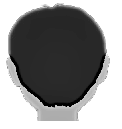
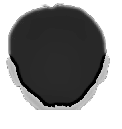
Ajuste area queimada pescoço

Changed region(s): [[0.2951, 0.8372, 0.6639, 0.9612]]

diff --git a/src/app/components/popup-cadastro-medicamento/popup-cadastro-medicamento.component.html b/src/app/components/popup-cadastro-medicamento/popup-cadastro-medicamento.component.html
@@ -200,71 +200,87 @@
                   </mat-error>
               </div>
             </div>
+            <div>
 
-            <div *ngIf="isRenal">
-              <label>Dados para pacientes com hemodiálise</label><br>
-              <mat-form-field class="div-mat-form-field">
-                  <input type="text" matInput formControlName="hemodialise">
-                  <mat-error *ngIf="formMedicamento.controls.hemodialise.invalid && formMedicamento.controls.hemodialise.touched">
-                    Esse campo é obrigatório.
-                  </mat-error>
-              </mat-form-field>
-            </div>        
-
-            <div *ngIf="isRenal">
-              <label>Clearance de Creatinina (Menor valor para comparação):</label><br>
-              <mat-form-field class="div-mat-form-field">
-                  <input type="number" matInput formControlName="clearanceCreatininaItem1">
-                  <mat-error *ngIf="formMedicamento.controls.clearanceCreatininaItem1.invalid && formMedicamento.controls.clearanceCreatininaItem1.touched">
-                    Esse campo é obrigatório.
-                  </mat-error>
-              </mat-form-field>
-            </div>   
-            
-            <div *ngIf="isRenal">
-              <label>Clearance de Creatinina (Maior valor para comparação):</label><br>
-              <mat-form-field class="div-mat-form-field">
-                <input type="number" matInput formControlName="clearanceCreatininaItem2">
-                <mat-error *ngIf="formMedicamento.controls.clearanceCreatininaItem2.invalid && formMedicamento.controls.clearanceCreatininaItem2.touched">
-                  Esse campo é obrigatório.
-                </mat-error>
-              </mat-form-field>
-            </div>   
-            
-            <div *ngIf="isRenal && isPediatrico">
-              <label>Clearance de Creatinina (Valor intermediário para comparação):</label><br>
-              <mat-form-field class="div-mat-form-field">
-                  <input type="number" matInput formControlName="clearanceCreatininaItem3">
-              </mat-form-field>
-            </div>    
+              <div *ngIf="isRenal" class="div-flex-1">
+                <div>
+                  <label>Dados para pacientes com hemodiálise</label><br>
+                  <mat-form-field class="div-mat-form-field">
+                      <input type="text" matInput formControlName="hemodialise">
+                      <mat-error *ngIf="formMedicamento.controls.hemodialise.invalid && formMedicamento.controls.hemodialise.touched">
+                        Esse campo é obrigatório.
+                      </mat-error>
+                  </mat-form-field>
+                </div>
+              </div>        
+  
+              <div *ngIf="isRenal" class="div-flex-1" >
+                <div style="width: 78%">
+                  <label>Clearance de Creatinina (Menor valor para comparação):</label><br>
+                  <mat-form-field class="div-mat-form-field">
+                      <input type="number" matInput formControlName="clearanceCreatininaItem1">
+                      <mat-error *ngIf="formMedicamento.controls.clearanceCreatininaItem1.invalid && formMedicamento.controls.clearanceCreatininaItem1.touched">
+                        Esse campo é obrigatório.
+                      </mat-error>
+                  </mat-form-field>
+                </div>
+              </div>   
               
-            <div *ngIf="isRenal">
-              <label>Correção de horário (Ex: 'Menor ClCr ou Medio ClCr' - 'Maior ClCr'):</label><br>
+              <div *ngIf="isRenal" class="div-flex-1">
+                <div style="width: 78%">
+                  <label>Clearance de Creatinina (Maior valor para comparação):</label><br>
+                  <mat-form-field class="div-mat-form-field">
+                    <input type="number" matInput formControlName="clearanceCreatininaItem2">
+                    <mat-error *ngIf="formMedicamento.controls.clearanceCreatininaItem2.invalid && formMedicamento.controls.clearanceCreatininaItem2.touched">
+                      Esse campo é obrigatório.
+                    </mat-error>
+                  </mat-form-field>
+                </div>
+              </div>   
+              
+              <div *ngIf="isRenal && isPediatrico" class="div-flex-1">
+                <div style="width: 78%">
+                  <label>Clearance de Creatinina (Valor intermediário para comparação):</label><br>
+                  <mat-form-field class="div-mat-form-field">
+                      <input type="number" matInput formControlName="clearanceCreatininaItem3">
+                  </mat-form-field>
+                </div>
+              </div>    
+                
+              <div *ngIf="isRenal" class="div-flex-1">
+                <div style="width: 78%">
+                  <label>Correção de horário (Ex: 'Menor ClCr ou Medio ClCr' - 'Maior ClCr'):</label><br>
+                  <mat-form-field class="div-mat-form-field">
+                      <input type="text" matInput formControlName="clearanceCreatininaHorario1">
+                      <mat-error *ngIf="formMedicamento.controls.clearanceCreatininaHorario1.invalid && formMedicamento.controls.clearanceCreatininaHorario1.touched">
+                        Esse campo é obrigatório.
+                      </mat-error>
+                  </mat-form-field>
+                </div>
+              </div> 
+            
+            <div *ngIf="isRenal" class="div-flex-1">
+              <div style="width: 78%">
+                <label>Correção de horário (Ex: < 'Menor ClCr'):</label><br>
+                <mat-form-field class="div-mat-form-field">
+                    <input type="text" matInput formControlName="clearanceCreatininaHorario2">
+                    <mat-error *ngIf="formMedicamento.controls.clearanceCreatininaHorario2.invalid && formMedicamento.controls.clearanceCreatininaHorario2.touched">
+                      Esse campo é obrigatório.
+                    </mat-error>
+                </mat-form-field>
+              </div>
+            </div>
+          </div>
+
+          <div *ngIf="isRenal && isPediatrico" class="div-flex-1">
+            <div style="width: 78%"> 
+              <label>Correção de horário (Ex: 'Menor ClCr' - 'Medio ClCr'):</label><br>
               <mat-form-field class="div-mat-form-field">
-                  <input type="text" matInput formControlName="clearanceCreatininaHorario1">
-                  <mat-error *ngIf="formMedicamento.controls.clearanceCreatininaHorario1.invalid && formMedicamento.controls.clearanceCreatininaHorario1.touched">
-                    Esse campo é obrigatório.
-                  </mat-error>
+                  <input type="text" matInput formControlName="clearanceCreatininaHorario3">             
               </mat-form-field>
-            </div> 
+            </div>
+          </div>
           
-          <div *ngIf="isRenal">
-            <label>Correção de horário (Ex: < 'Menor ClCr'):</label><br>
-            <mat-form-field class="div-mat-form-field">
-                <input type="text" matInput formControlName="clearanceCreatininaHorario2">
-                <mat-error *ngIf="formMedicamento.controls.clearanceCreatininaHorario2.invalid && formMedicamento.controls.clearanceCreatininaHorario2.touched">
-                  Esse campo é obrigatório.
-                </mat-error>
-            </mat-form-field>
-          </div>
-
-
-          <div *ngIf="isRenal && isPediatrico">
-            <label>Correção de horário (Ex: 'Menor ClCr' - 'Medio ClCr'):</label><br>
-            <mat-form-field class="div-mat-form-field">
-                <input type="text" matInput formControlName="clearanceCreatininaHorario3">             
-            </mat-form-field>
-          </div>
           <mat-action-row>
             <button mat-button color="warn" (click)="prevStep()">Voltar</button>
             <button mat-button color="primary" (click)="nextStep()">Próximo</button>

diff --git a/src/app/pages/folha-de-parada/folha-de-parada.component.ts b/src/app/pages/folha-de-parada/folha-de-parada.component.ts
@@ -71,11 +71,15 @@ calcularDosagens() {
   this.calculoMg();
   this.calcularProfundidadeTE();
   this.calcularTamanhoTE();
+  this.calcularDesfibrilacao();
+  this.cardioversaoSincronizada();
 } 
 
   calcularIdade(){
     this.calcularTamanhoTE();
     this.calcularProfundidadeTE();
+    this.calcularDesfibrilacao();
+    this.cardioversaoSincronizada()
     
     if(!this.peso && this.idade){
       this.pesoPrevisto = (this.idade * 2) + 8;
@@ -189,14 +193,15 @@ calcularDosagens() {
   calcularDesfibrilacao() {
     const energias = [2, 4, 6, 8, 10];      
     // Calcular as cinco energias e adicioná-las ao array
-    return this.desfibrilacao = energias.map(x => x * this.peso)
+      this.desfibrilacao = energias.map(x => x * this.peso);
   }
 
   cardioversaoSincronizada() {
     const energias = [0.5,1,2];    
     // Calcular as cinco energias e adicioná-las ao array
-    return this.cardioversaoSinc = energias.map(x => x * this.peso)
+    this.cardioversaoSinc = energias.map(x => x * this.peso);
   }
+ 
 
   calculoMl(){
     let pesoCalculo = this.peso;

diff --git a/src/app/services/login.service.ts b/src/app/services/login.service.ts
@@ -13,9 +13,9 @@ import { ActivatedRoute, Router } from '@angular/router';
   providedIn: 'root'
 })
 export class LoginService {
-  // endpoint: string = 'https://doctor-api.azurewebsites.net/api';
+  endpoint: string = 'https://doctor-api.azurewebsites.net/api';
   // endpoint: string = 'https://doctors-api.azurewebsites.net/api';
-  endpoint: string = 'https://localhost:7044/api';
+  // endpoint: string = 'https://localhost:7044/api';
 
   headers = new HttpHeaders().set('Content-Type', 'application/json');
   currentLogin = {};

diff --git a/src/app/services/medicamentos.service.ts b/src/app/services/medicamentos.service.ts
@@ -13,9 +13,9 @@ import { Medicamento } from '../model/medicamento';
 })
 export class MedicamentosService {
 
-// REST_API: string = 'https://doctor-api.azurewebsites.net/api';
+REST_API: string = 'https://doctor-api.azurewebsites.net/api';
 // REST_API: string = 'https://doctors-api.azurewebsites.net/api';
-REST_API: string = 'https://localhost:7044/api';
+// REST_API: string = 'https://localhost:7044/api';
 
 httpHeaders = new HttpHeaders().set('Content-Type', 'application/json');
 constructor(private httpClient: HttpClient) {}

diff --git a/src/app/pages/calculo-regra-dos-nove/calculo-regra-dos-nove.component.scss b/src/app/pages/calculo-regra-dos-nove/calculo-regra-dos-nove.component.scss
@@ -338,9 +338,9 @@
   
   .pescoco-frente-kid{
     width: 20.2%;
-    top: 34.3%;
-    left: 42.8%;
-    height: 13%;
+    top: 30%;
+    left: 42%;
+    height: 12%;
   }
   
   .biceps-direito-frente-kid{
@@ -463,10 +463,10 @@
   }
   
   .pescoco-costa-kid{
-    width: 21.2%;
-    top: 40%;
-    left: 39.4%;
-    height: 16%;
+    width: 18.6%;
+    top: 38%;
+    left: 40.4%;
+    height: 13.7%;
   }
   
   .biceps-direito-costa-kid{

diff --git a/src/app/components/popup-cadastro-medicamento/popup-cadastro-medicamento.component.scss b/src/app/components/popup-cadastro-medicamento/popup-cadastro-medicamento.component.scss
@@ -13,5 +13,10 @@
   display: grid;
 }
 
+.div-flex-1{
+  display: flex;
+  justify-content: center;
+}
+
 
 
